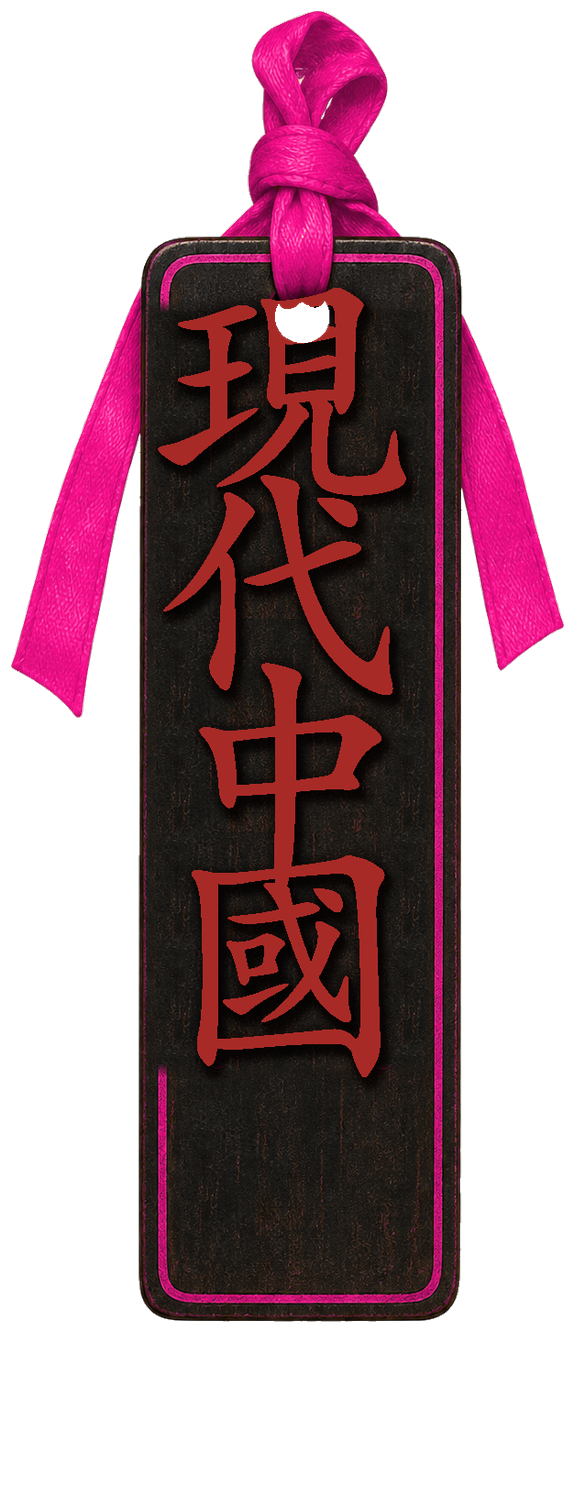
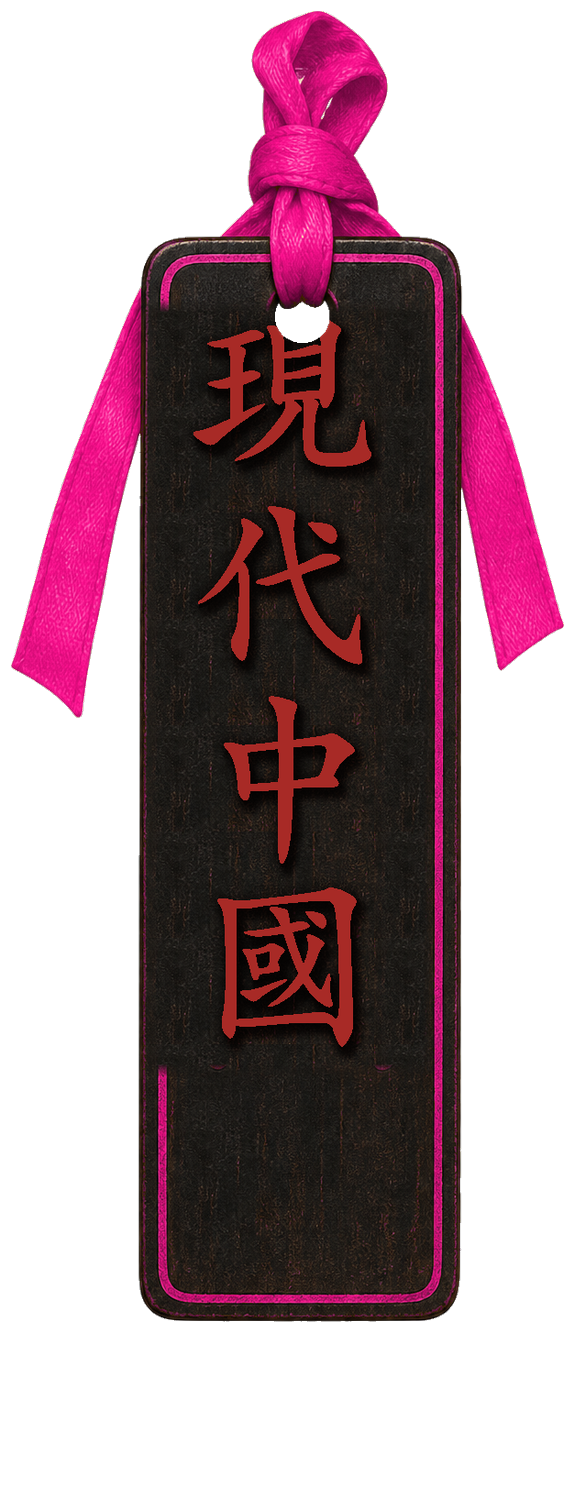
Plaque

Changed region(s): [[0.2661, 0.1868, 0.7096, 0.7159]]

diff --git a/src/viewer/chrome.ts b/src/viewer/chrome.ts
@@ -29,13 +29,13 @@ export function mountChrome(viewer: Viewer): void {
     silver: {
       handi: '/ui/silver/handi-lingpai.png',
       zhongguo: '/ui/silver/zhongguo-lingpai.png',
-      xiandai: '/ui/silver/xiandai-lingpai.png?v=kaiti16',
+      xiandai: '/ui/silver/xiandai-lingpai.png?v=kaiti17',
       hailu: '/ui/silver/hailu-lingpai.png',
     },
     bronze: {
       handi: '/ui/bronze/handi-lingpai.png',
       zhongguo: '/ui/bronze/zhongguo-lingpai.png',
-      xiandai: '/ui/bronze/xiandai-lingpai.png?v=kaiti16',
+      xiandai: '/ui/bronze/xiandai-lingpai.png?v=kaiti17',
       hailu: '/ui/bronze/hailu-lingpai.png',
     },
   }

diff --git a/atlab.html b/atlab.html
@@ -123,7 +123,7 @@
               aria-pressed="false"
               hidden
             >
-              <img src="/ui/silver/xiandai-lingpai.png?v=kaiti16" alt="" draggable="false" />
+              <img src="/ui/silver/xiandai-lingpai.png?v=kaiti17" alt="" draggable="false" />
             </button>
             <button
               type="button"

diff --git a/index.html b/index.html
@@ -124,7 +124,7 @@
               aria-pressed="false"
               hidden
             >
-              <img src="/ui/silver/xiandai-lingpai.png?v=kaiti16" alt="" draggable="false" />
+              <img src="/ui/silver/xiandai-lingpai.png?v=kaiti17" alt="" draggable="false" />
             </button>
             <button
               type="button"

diff --git a/scripts/build-xiandai-lingpai.py b/scripts/build-xiandai-lingpai.py
@@ -32,16 +32,35 @@ FONT_INDEX = 4
 TITLE = "現代中國"
 
 # Zhongguo 4-char vertical band midpoints (575×1510 silver).
-# Keep top padding; empty metal below last char is intentional.
 CHAR_MIDS_Y = (445, 664, 883, 1096)
-BODY_CX = 287  # slight left of geometric 287.5 so under-cast doesn't read right-shift
-GLYPH_SIZE = 300  # ~0.52 of width — matches sibling scale
+BODY_CX = 287
+# Sibling chars are ~170–180px tall — was 300 (too big / too bright flat fill).
+GLYPH_SIZE = 215
 
 # Wipe / inpaint column covering all four glyph boxes.
 WIPE_X0, WIPE_X1 = 145, 435
 WIPE_Y0, WIPE_Y1 = 340, 1220
-GUTTER_X0, GUTTER_X1 = 95, 135  # clean metal left of glyphs
+GUTTER_X0, GUTTER_X1 = 95, 135  # unused; wipe uses bottom face metal
 
+
+def sample_sibling_silver(path: Path) -> tuple[np.ndarray, tuple[int, int, int]]:
+    """Return (Nx3 RGB samples, median RGB) from low-sat bright glyph cores."""
+    a = np.array(Image.open(path).convert("RGBA"))
+    r, g, b, al = [a[:, :, i].astype(np.float32) for i in range(4)]
+    mx = np.maximum(np.maximum(r, g), b)
+    mn = np.minimum(np.minimum(r, g), b)
+    sat = np.zeros_like(mx)
+    pos = mx > 0
+    sat[pos] = (mx - mn)[pos] / mx[pos]
+    lum = 0.3 * r + 0.59 * g + 0.11 * b
+    m = (al > 200) & (sat < 0.12) & (lum > 155) & (lum < 240)
+    m[:, :160] = False
+    m[:, 430:] = False
+    m[:350] = False
+    m[1200:] = False
+    samples = np.stack([r[m], g[m], b[m]], axis=1)
+    med = tuple(int(round(x)) for x in np.median(samples, axis=0))
+    return samples, med  # type: ignore[return-value]
 
 def recolor_gold_to_pink(rgba: np.ndarray, *, sat_scale: float = 0.92) -> np.ndarray:
     """Hue-shift gold ribbon/border pixels to magenta; leave metal/glyphs alone."""
@@ -138,18 +157,16 @@ def paint_silver_glyphs(base: Image.Image, font: ImageFont.FreeTypeFont) -> Imag
         x0 = int(BODY_CX - mw / 2)
         y0 = int(cy - mh / 2)
 
-        amb = mask.filter(ImageFilter.MaxFilter(11)).filter(ImageFilter.GaussianBlur(5))
+        amb = mask.filter(ImageFilter.MaxFilter(9)).filter(ImageFilter.GaussianBlur(4))
         ambient = _paste_lighter(ambient, amb, x0, y0)
 
-        pud = mask.filter(ImageFilter.MaxFilter(7)).filter(ImageFilter.GaussianBlur(3.5))
-        under = _paste_lighter(under, pud, x0 + 6, y0 + 10)
-        # hard contact strip (1–2px SE)
+        pud = mask.filter(ImageFilter.MaxFilter(5)).filter(ImageFilter.GaussianBlur(2.5))
+        under = _paste_lighter(under, pud, x0 + 4, y0 + 7)
         contact = mask.filter(ImageFilter.MaxFilter(3))
-        under = _paste_lighter(under, contact, x0 + 2, y0 + 3)
+        under = _paste_lighter(under, contact, x0 + 1, y0 + 2)
 
         body = _paste_lighter(body, mask, x0, y0)
 
-        # Inner bevel highlight: mask eroded, shifted NW
         eroded = ImageEval_erode(mask, 2)
         bevel = _paste_lighter(bevel, eroded, x0 - 1, y0 - 1)
 
@@ -160,24 +177,32 @@ def paint_silver_glyphs(base: Image.Image, font: ImageFont.FreeTypeFont) -> Imag
         for c, mul in enumerate((0.12, 0.10, 0.10)):
             rgba[:, :, c] *= 1.0 - m * strength * (1.0 - mul)
 
-    apply_dark(ambient, 0.55)
-    apply_dark(under, 0.85)
+    apply_dark(ambient, 0.45)
+    apply_dark(under, 0.70)
 
-    # Bevel highlight (inside stroke)
     bm = np.array(bevel).astype(np.float32) / 255.0
     body_m = np.array(body).astype(np.float32) / 255.0
     bm *= body_m
-    for c, add in enumerate((28, 26, 24)):
+    for c, add in enumerate((18, 16, 14)):
         rgba[:, :, c] = np.clip(rgba[:, :, c] + bm * add, 0, 255)
 
-    # Solid silver body last (slightly bright)
-    silver = np.array([214, 214, 218], dtype=np.float32)
-    for c in range(3):
-        rgba[:, :, c] = np.where(body_m > 0.5, silver[c], rgba[:, :, c])
+    # Exact sibling silver — sample Zhongguo glyph cores (not a guessed flat #D6D6DA).
+    samples, med = sample_sibling_silver(ROOT / "assets/ui/silver/zhongguo-lingpai.png")
+    silver = np.array(med, dtype=np.float32)
+    # Light grain from real samples so the fill isn't a flat plastic plate
+    rng = np.random.default_rng(42)
+    ys, xs = np.where(body_m > 0.5)
+    if len(ys):
+        idx = rng.integers(0, len(samples), size=len(ys))
+        # Blend median with sampled grain (mostly median so colour matches)
+        grain = samples[idx]
+        fill = silver * 0.72 + grain * 0.28
+        rgba[ys, xs, 0] = fill[:, 0]
+        rgba[ys, xs, 1] = fill[:, 1]
+        rgba[ys, xs, 2] = fill[:, 2]
 
     rgba[:, :, 3] = np.array(canvas)[:, :, 3]
     return Image.fromarray(np.clip(rgba, 0, 255).astype(np.uint8), "RGBA")
-
 
 def paint_bronze_glyphs(base: Image.Image, font: ImageFont.FreeTypeFont) -> Image.Image:
     """Same stack; body ≈ dark red carving to match bronze siblings."""
